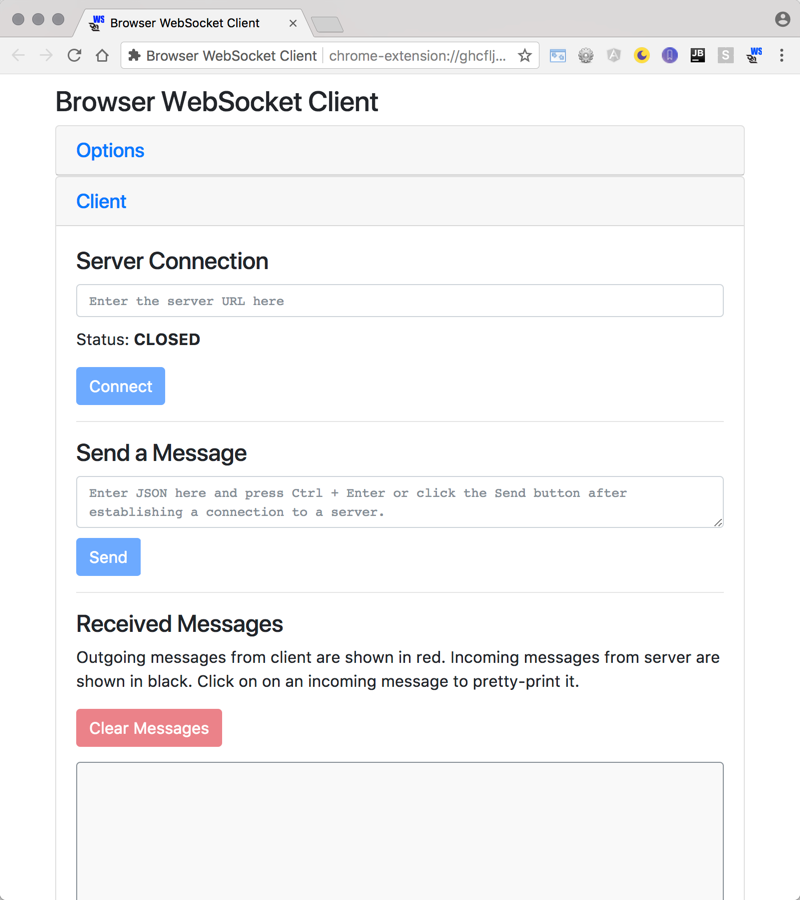
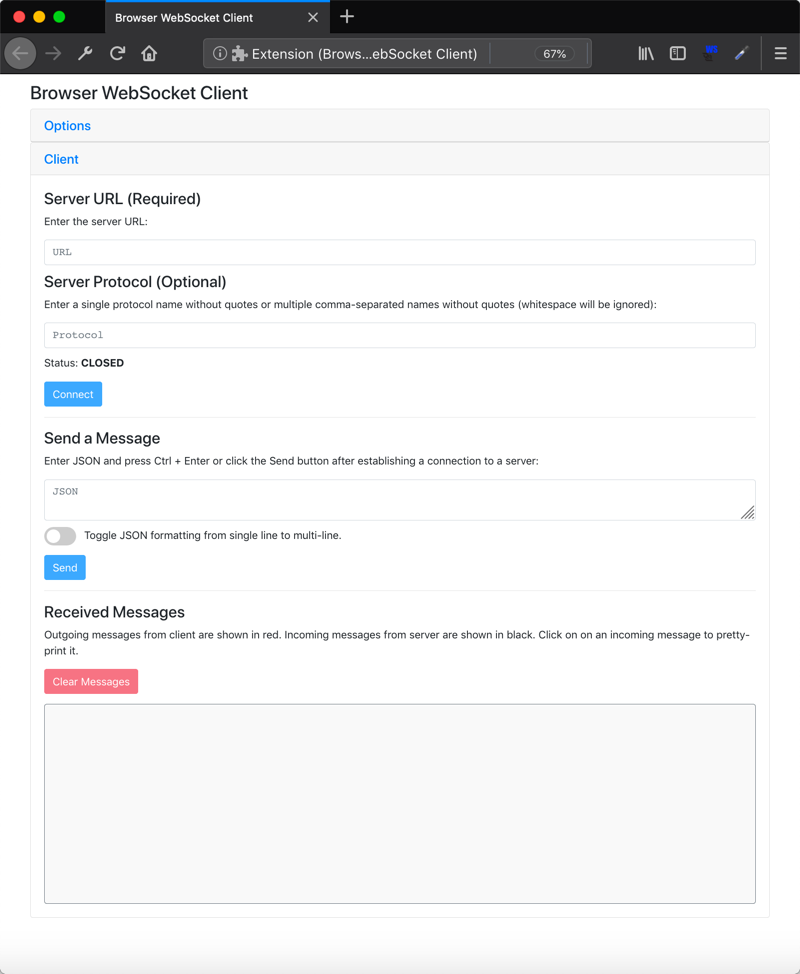
update README.md and screenshots after ui changes

diff --git a/README.md b/README.md
@@ -38,11 +38,13 @@ The screenshot below shows the result of clicking on an incoming message. The me
 
 #### Options Section
 
-The "Options" section allows you to save server URLs and messages that you can select from drop-down menus in the "Client" section. They are saved to [storage.sync](https://developer.mozilla.org/en-US/Add-ons/WebExtensions/API/storage/sync) so they remain available after a browser restart. You can edit and delete both URLs and messages. Additionally, you can pretty-print a saved message body.
+The "Options" section allows you to save server URLs and messages that you can select from drop-down menus in the "Client" section. They are saved to [storage.sync](https://developer.mozilla.org/en-US/Add-ons/WebExtensions/API/storage/sync) so they remain available after a browser restart. You can edit and delete URLs, protocols, and messages. Additionally, you can pretty-print a saved message body. 
+
+Note the toggle switch under the message body textarea. Use it to change the JSON formatting from single line to multi-line and vice versa.
 
 ![screenshot_4](screenshots/screenshot_4.png?raw=true)
 
-Below you can see an example of choosing a saved server URL and then a saved message.
+Below is the Client section again. However, now you can see dropdown menus with the saved items from the Options section.
 
 ![screenshot_5](screenshots/screenshot_5.png?raw=true)
 
